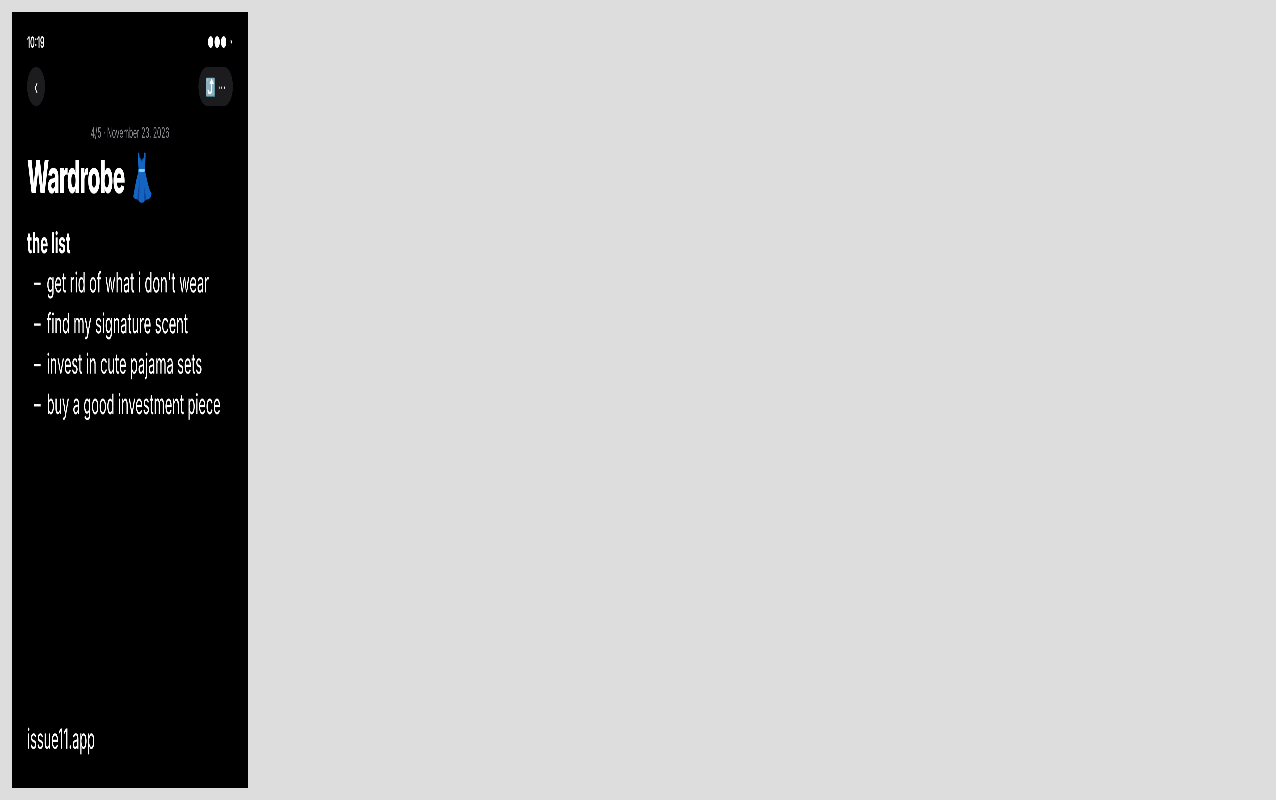
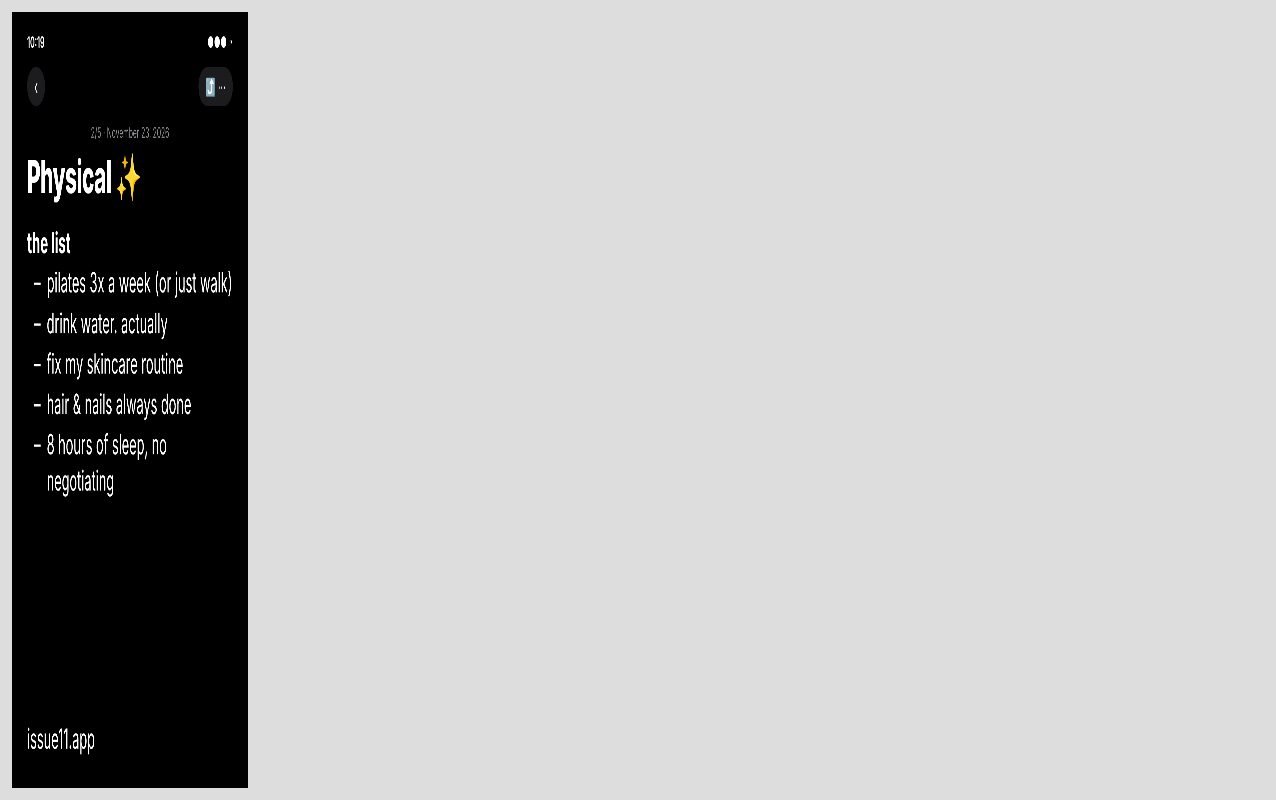
Pinterest: PRC-2 "hair & nails always done" (Megan)
Claude-Session: https://claude.ai/code/session_01YGtmQppBCBt9nypMHzxSp1

diff --git a/drafts/pinterest/carousels/PRC-2.dc.html b/drafts/pinterest/carousels/PRC-2.dc.html
@@ -18,7 +18,7 @@
   <p style="margin:34px 0 0; text-align:center; font-size:28px; color:#8e8e93">2/5 · November 23, 2026</p>
   <h1 style="margin:22px 0 0; font-size:88px; font-weight:800; letter-spacing:-0.02em; line-height:1.05">Physical ✨</h1>
   
-  <p style="margin:48px 0 6px; font-weight:700; font-size:56px">the list</p><div style="padding-left:30px; font-size:54px; line-height:1.3"><div style="display:flex; gap:26px; margin:8px 0"><span>–</span><span>pilates 3x a week (or just walk)</span></div><div style="display:flex; gap:26px; margin:8px 0"><span>–</span><span>drink water. actually</span></div><div style="display:flex; gap:26px; margin:8px 0"><span>–</span><span>fix my skincare routine</span></div><div style="display:flex; gap:26px; margin:8px 0"><span>–</span><span>nails always done</span></div><div style="display:flex; gap:26px; margin:8px 0"><span>–</span><span>8 hours of sleep, no negotiating</span></div></div>
+  <p style="margin:48px 0 6px; font-weight:700; font-size:56px">the list</p><div style="padding-left:30px; font-size:54px; line-height:1.3"><div style="display:flex; gap:26px; margin:8px 0"><span>–</span><span>pilates 3x a week (or just walk)</span></div><div style="display:flex; gap:26px; margin:8px 0"><span>–</span><span>drink water. actually</span></div><div style="display:flex; gap:26px; margin:8px 0"><span>–</span><span>fix my skincare routine</span></div><div style="display:flex; gap:26px; margin:8px 0"><span>–</span><span>hair &amp; nails always done</span></div><div style="display:flex; gap:26px; margin:8px 0"><span>–</span><span>8 hours of sleep, no negotiating</span></div></div>
 <p style="position:absolute; left:64px; bottom:60px; margin:0; font-size:54px; line-height:1.3">issue11.app</p></div>
 </div>
 </x-dc>

diff --git a/drafts/pinterest/color-test/PRC-2.dc.html b/drafts/pinterest/color-test/PRC-2.dc.html
@@ -18,7 +18,7 @@
   <p style="margin:34px 0 0; text-align:center; font-size:28px; color:#8e8e93">2/5 · November 23, 2026</p>
   <h1 style="margin:22px 0 0; font-size:88px; font-weight:800; letter-spacing:-0.02em; line-height:1.05">Physical ✨</h1>
   
-  <p style="margin:48px 0 6px; font-weight:700; font-size:56px">the list</p><div style="padding-left:30px; font-size:54px; line-height:1.3"><div style="display:flex; gap:26px; margin:8px 0"><span>–</span><span>pilates 3x a week (or just walk)</span></div><div style="display:flex; gap:26px; margin:8px 0"><span>–</span><span>drink water. actually</span></div><div style="display:flex; gap:26px; margin:8px 0"><span>–</span><span>fix my skincare routine</span></div><div style="display:flex; gap:26px; margin:8px 0"><span>–</span><span>nails always done</span></div><div style="display:flex; gap:26px; margin:8px 0"><span>–</span><span>8 hours of sleep, no negotiating</span></div></div>
+  <p style="margin:48px 0 6px; font-weight:700; font-size:56px">the list</p><div style="padding-left:30px; font-size:54px; line-height:1.3"><div style="display:flex; gap:26px; margin:8px 0"><span>–</span><span>pilates 3x a week (or just walk)</span></div><div style="display:flex; gap:26px; margin:8px 0"><span>–</span><span>drink water. actually</span></div><div style="display:flex; gap:26px; margin:8px 0"><span>–</span><span>fix my skincare routine</span></div><div style="display:flex; gap:26px; margin:8px 0"><span>–</span><span>hair &amp; nails always done</span></div><div style="display:flex; gap:26px; margin:8px 0"><span>–</span><span>8 hours of sleep, no negotiating</span></div></div>
 <p style="position:absolute; left:64px; bottom:60px; margin:0; font-size:54px; line-height:1.3">issue11.app</p></div>
 </div>
 </x-dc>

diff --git a/drafts/pinterest/color-test/rebrand_car_gen.py b/drafts/pinterest/color-test/rebrand_car_gen.py
@@ -11,7 +11,7 @@ def note(k,i,title,secs):
     inner=inner[:-6]+f'<p style="position:absolute; left:64px; bottom:60px; margin:0; font-size:{fs}px; line-height:1.3">issue11.app</p></div>'
     P[k]=ns['doc'](f'Personal rebrand carousel · slide {i}',inner,bg)
 note('PRC-1',1,'Project: Personal Rebrand 🎀🫧',[("the plan",["physical","mentally","wardrobe","money + space"]),("when",["starting now, not january"])])
-note('PRC-2',2,'Physical ✨',[("the list",["pilates 3x a week (or just walk)","drink water. actually","fix my skincare routine","nails always done","8 hours of sleep, no negotiating"])])
+note('PRC-2',2,'Physical ✨',[("the list",["pilates 3x a week (or just walk)","drink water. actually","fix my skincare routine","hair &amp; nails always done","8 hours of sleep, no negotiating"])])
 note('PRC-3',3,'Mentally 🧠',[("the list",["no more people-pleasing","journal before i touch my phone","unfollow anyone who makes me feel behind","one hard thing a week"])])
 note('PRC-4',4,'Wardrobe 👗',[("the list",["get rid of what i don't wear","find my signature scent","invest in cute pajama sets","buy a good investment piece"])])
 note('PRC-5',5,'Money + space 💸',[("money",["open a HYSA account just for future me","raise my rates (or ask for a raise)"]),("space",["clean out my camera roll","make my bed every day"])])
